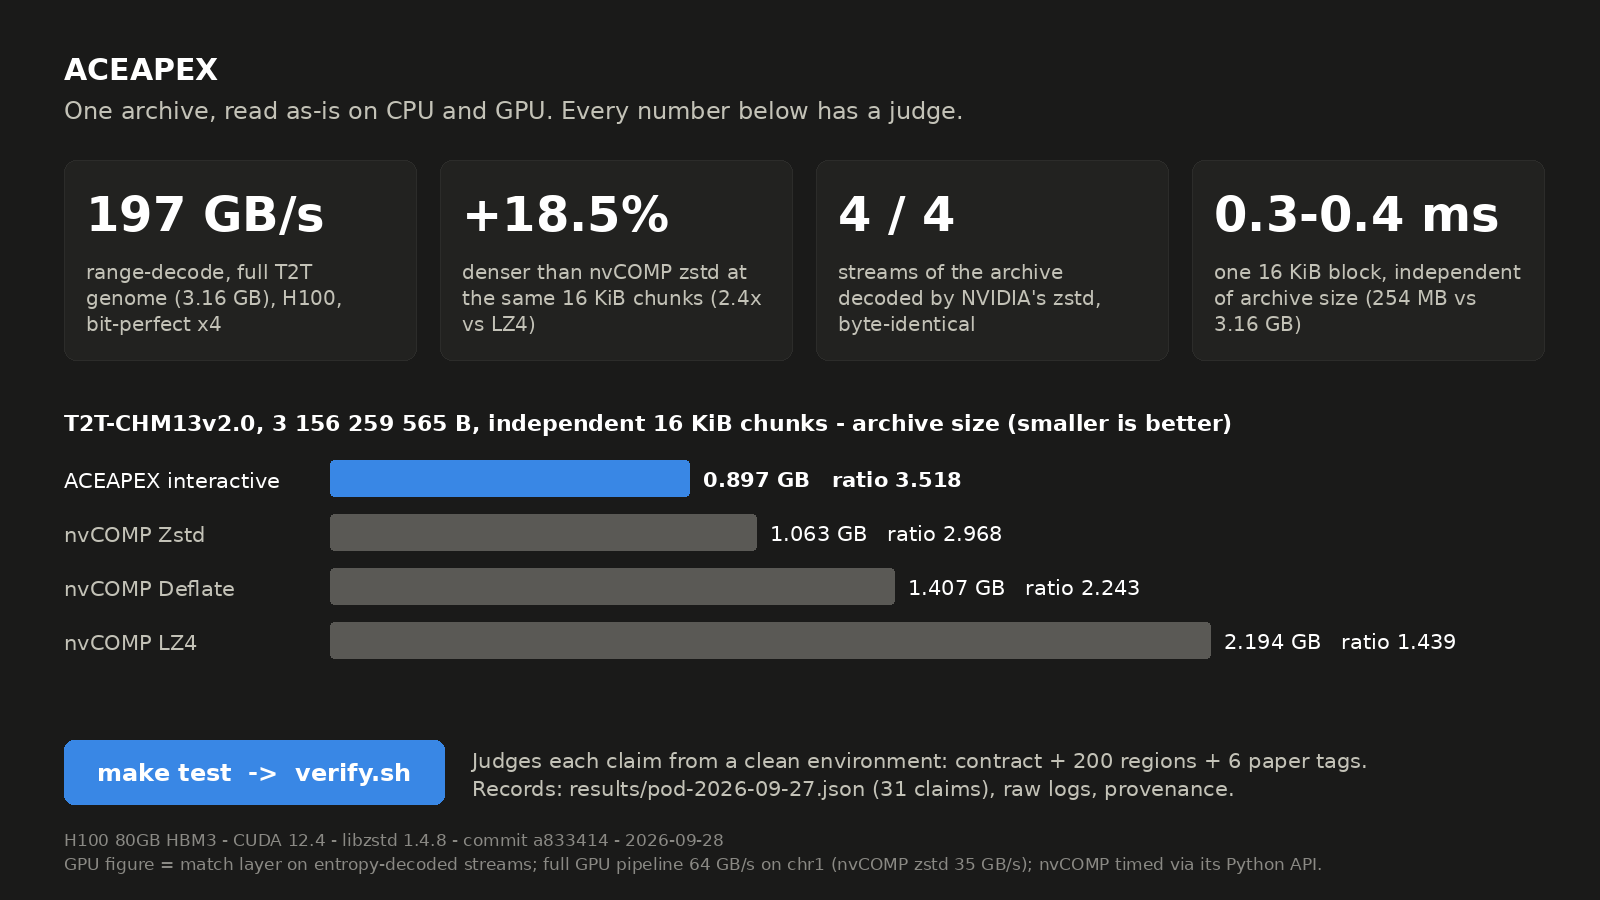
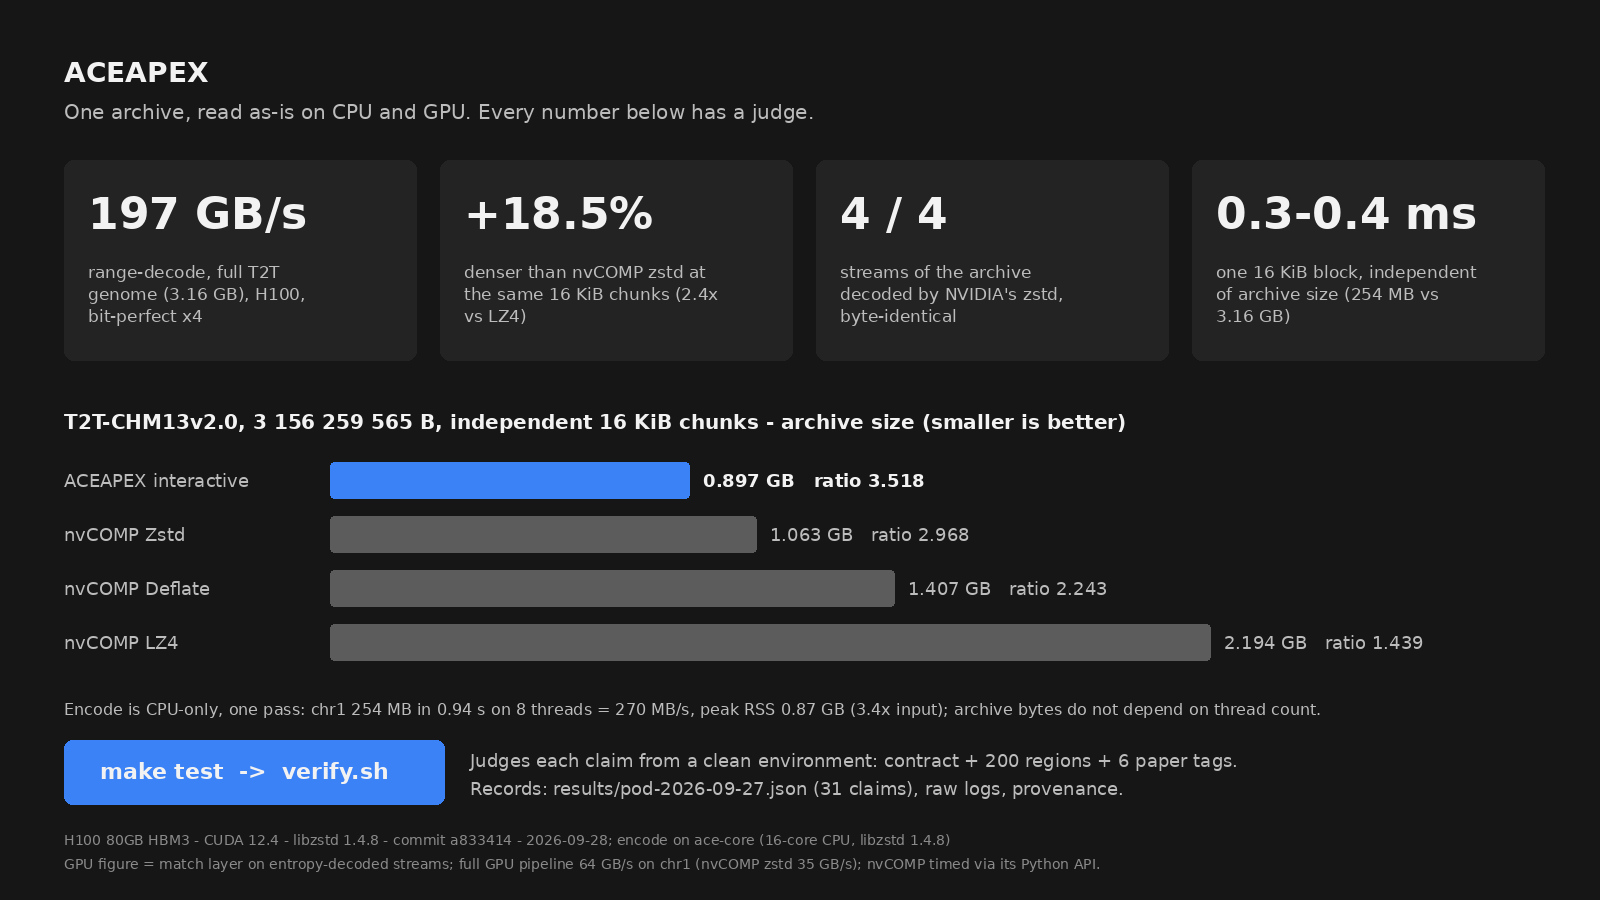
README: encode cost on the passport card and front block, raw log in results
chr1 254 MB, 8 threads, 0.94 s = 270 MB/s, peak RSS 0.87 GB; archive bytes independent of thread count.

Claude-Session: https://claude.ai/code/session_016StKBGoHQdUiMmDsZ7Q9Rq

diff --git a/README.md b/README.md
@@ -19,6 +19,7 @@ Judges the contract, 200 random regions and all 6 paper tags from a clean enviro
 writes `results/<tag>.json` with provenance (host, cores, libzstd, compiler) and prints
 pass / fail / known-deviation per claim. GPU claims need an H100 + nvCOMP 5.3;
 without one they are marked `skipped-gpu`, never `pass`.
+Encode is CPU-only, one pass: chr1 (254 MB) in 0.94 s on 8 threads = 270 MB/s, peak RSS 0.87 GB; archive bytes do not depend on thread count (ace-core, libzstd 1.4.8).
 Pod-day record: [`results/pod-2026-09-27.json`](results/pod-2026-09-27.json) (31 claims), raw log, [decisions](docs/DECISIONS.md).
 Details: [Verify every published number](#verify-every-published-number).
 
